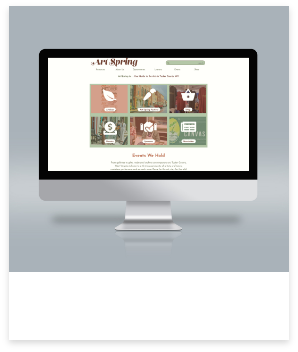
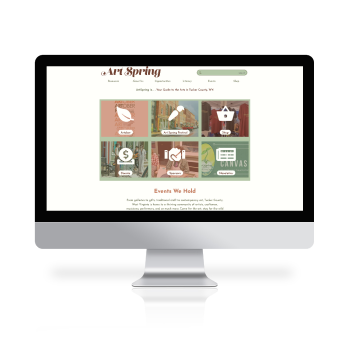
changed and updated photos

diff --git a/work.html b/work.html
@@ -62,13 +62,13 @@
                 </div>
                 <div class="row w-100 justify-content-center">
                     <a class="col-md-3 col-lg-4" href="artspring.html"><img src="images/digital1.png" alt="">
-                        <p>ArtSpring</p>
+                        <p>Art Spring | 2023</p>
                     </a>
                     <a class="col-md-3 col-lg-4" href="scatteredthoughts.html"><img src="images/digital2.png" alt="">
-                        <p>Scattered Thoughts</p>
+                        <p>Scattered Thoughts | 2023</p>
                     </a>
                     <a class="col-md-3 col-lg-4" href="guardiansdesign.html"><img src="images/digital3.png" alt="">
-                        <p>Guardians Redesign</p>
+                        <p>Guardians Redesign | 2023</p>
                     </a>
                 </div>
             </div>
@@ -77,13 +77,13 @@
             
                 <div class="row w-100 justify-content-center">
                     <a class="col-md-3 col-lg-4" href=""><img src="images/print1.png" alt="">
-                        <p>Ad Campaign</p>
+                        <p>Ad Campaign | 2022</p>
                     </a>
                     <a class="col-md-3 col-lg-4" href=""><img src="images/print2.png" alt="">
-                        <p>Book Collection</p>
+                        <p>Book Collection | 2022</p>
                     </a>
                     <a class="col-md-3 col-lg-4" href=""><img src="images/print3.png" alt="">
-                        <p>Ted Talk</p>
+                        <p>Ted Talk | 2022</p>
                     </a>
                 </div>
             </div>
@@ -92,13 +92,13 @@
              
                 <div class="row justify-content-center">
                     <a class="col-md-3 col-lg-4" href="textdesign.html"><img src="images/print4.png" alt="">
-                        <p>TypeFace Design</p>
+                        <p>TypeFace Design | 2022</p>
                     </a>
                     <a class="col-md-3 col-lg-4" href=""><img src="images/print5.png" alt="">
-                        <p>Mark Collection</p>
+                        <p>Mark Collection | 2022</p>
                     </a>
                     <a class="col-md-3 col-lg-4" href="textoverlay.html"><img src="images/print6.png" alt="">
-                        <p>Text Overlay</p>
+                        <p>Text Overlay | 2021</p>
                     </a>
                 </div>
             </div>
